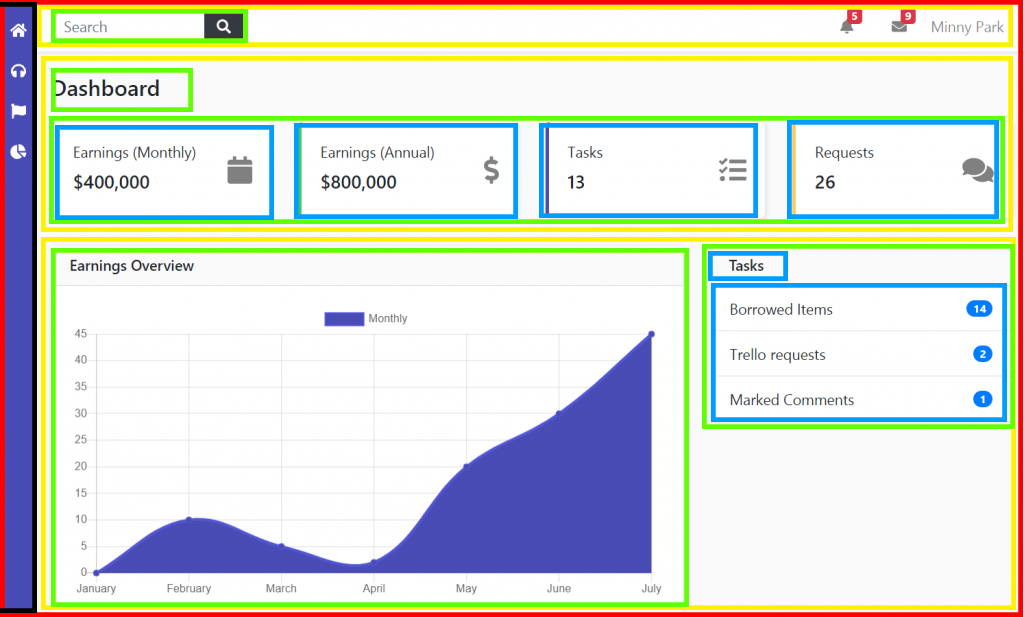
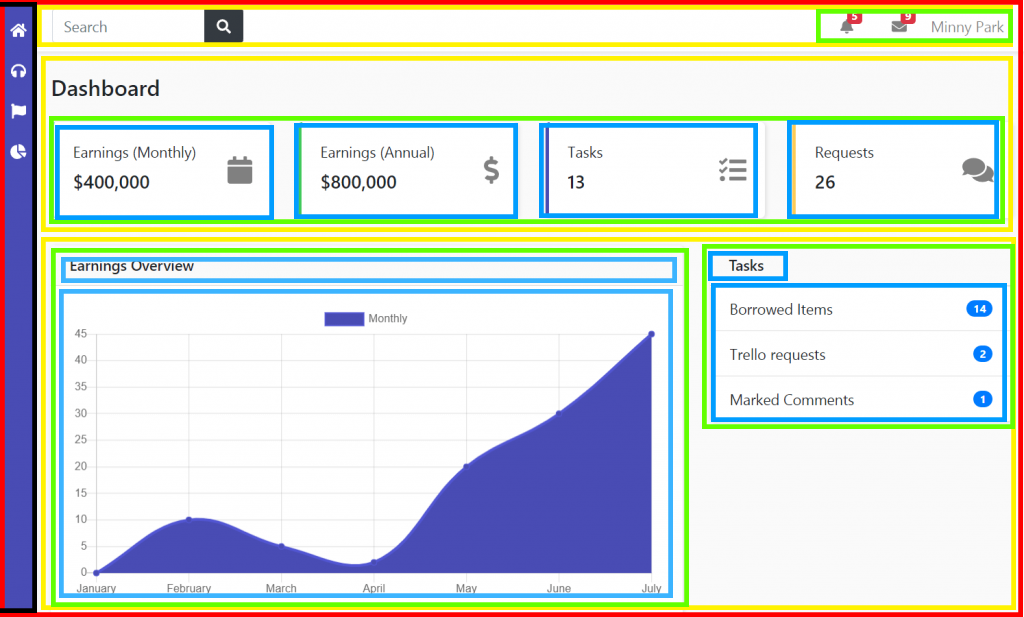
add homework structure and make ppt

Changed region(s): [[0.0312, 0.4003, 0.6875, 0.9854], [0.0312, 0.0, 0.25, 0.1848], [0.7812, 0.0, 1.0, 0.0924]]

diff --git a/study_html_css/html/12_14_15-homework.html b/study_html_css/html/12_14_15-homework.html
@@ -1,0 +1,67 @@
+<!DOCTYPE html>
+<html lang="en">
+<head>
+  <meta charset="UTF-8">
+  <meta name="viewport" content="width=device-width, initial-scale=1.0">
+  <title>Document</title>
+  <link href="https://cdn.jsdelivr.net/npm/bootstrap@5.3.2/dist/css/bootstrap.min.css" rel="stylesheet" integrity="sha384-T3c6CoIi6uLrA9TneNEoa7RxnatzjcDSCmG1MXxSR1GAsXEV/Dwwykc2MPK8M2HN" crossorigin="anonymous">
+  <link rel="stylesheet" href="https://cdnjs.cloudflare.com/ajax/libs/font-awesome/6.4.2/css/all.min.css" integrity="sha512-z3gLpd7yknf1YoNbCzqRKc4qyor8gaKU1qmn+CShxbuBusANI9QpRohGBreCFkKxLhei6S9CQXFEbbKuqLg0DA==" crossorigin="anonymous" referrerpolicy="no-referrer" />
+  <link rel="stylesheet" href="../css/12_14_15-homework.css">
+  <style>
+    @import url('https://fonts.googleapis.com/css2?family=Montserrat:wght@300&display=swap');
+  </style>
+</head>
+<body style="background-color: rgb(205, 255, 255);">
+
+
+  <div class="sidebar">
+    
+  </div>
+
+  <div class="yellow1">
+    <input type="text">
+    <div class="green1">
+      <p class="name">Chang-geun Kim</p>
+    </div>
+  </div>
+
+
+
+  <div class="yellow2">
+    <h3>Dashboard</h3>
+    <div class="green2">
+
+    </div>
+  </div>
+
+
+
+  <div class="yellow3">
+    <div class="green3">
+      <div class="blue5">
+        <h6>Earning Overview</h6>
+      </div>
+      <div class="blue6">
+        graph
+      </div>
+
+    </div>
+
+    <div class="green4">
+      <div class="blue7">
+        label
+      </div>
+      <div class="blue8">
+        list + icon
+      </div>
+    </div>
+
+  </div>
+
+
+
+
+
+  <script src="https://cdn.jsdelivr.net/npm/bootstrap@5.3.2/dist/js/bootstrap.bundle.min.js" integrity="sha384-C6RzsynM9kWDrMNeT87bh95OGNyZPhcTNXj1NW7RuBCsyN/o0jlpcV8Qyq46cDfL" crossorigin="anonymous"></script>
+</body>
+</html>
